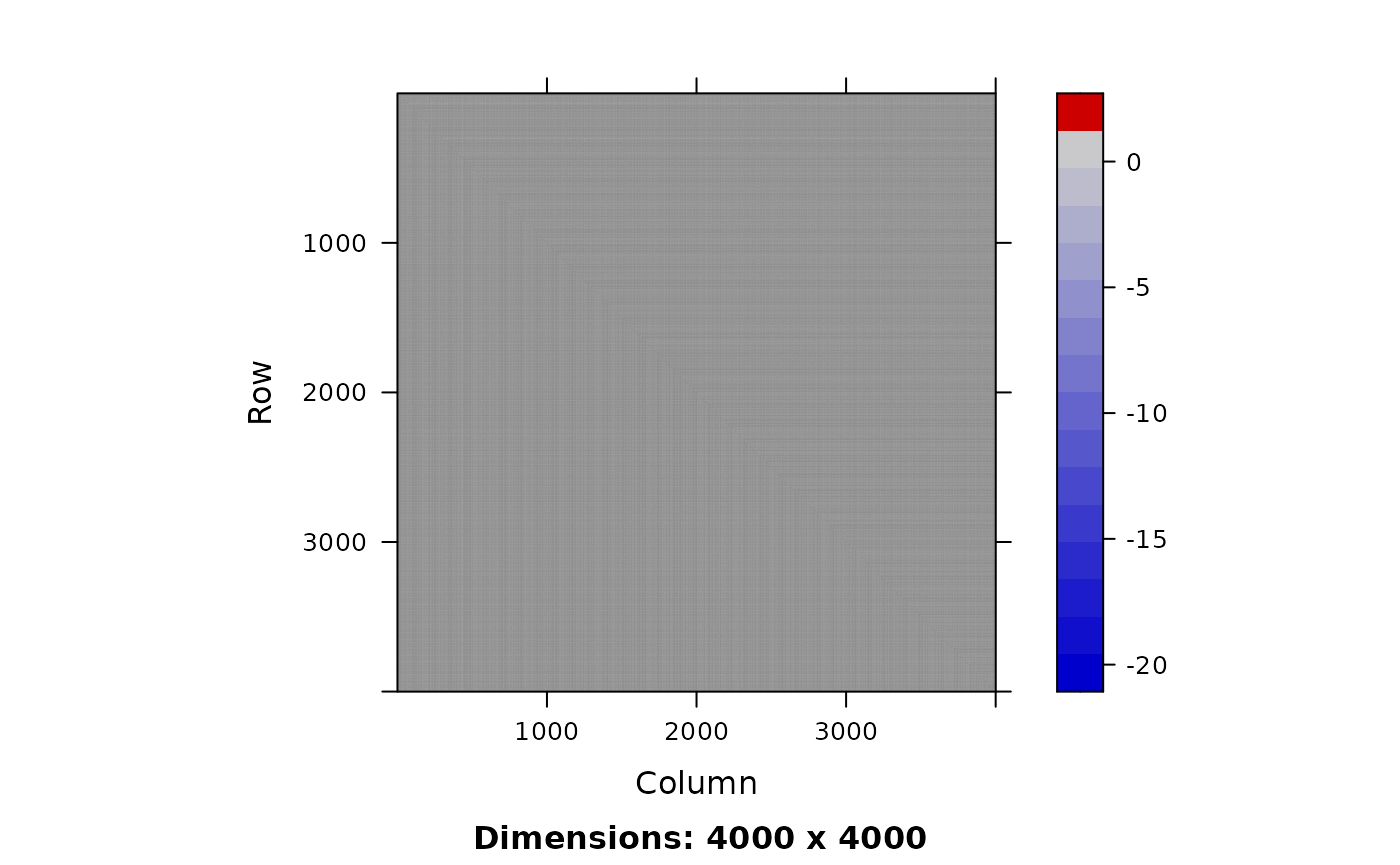
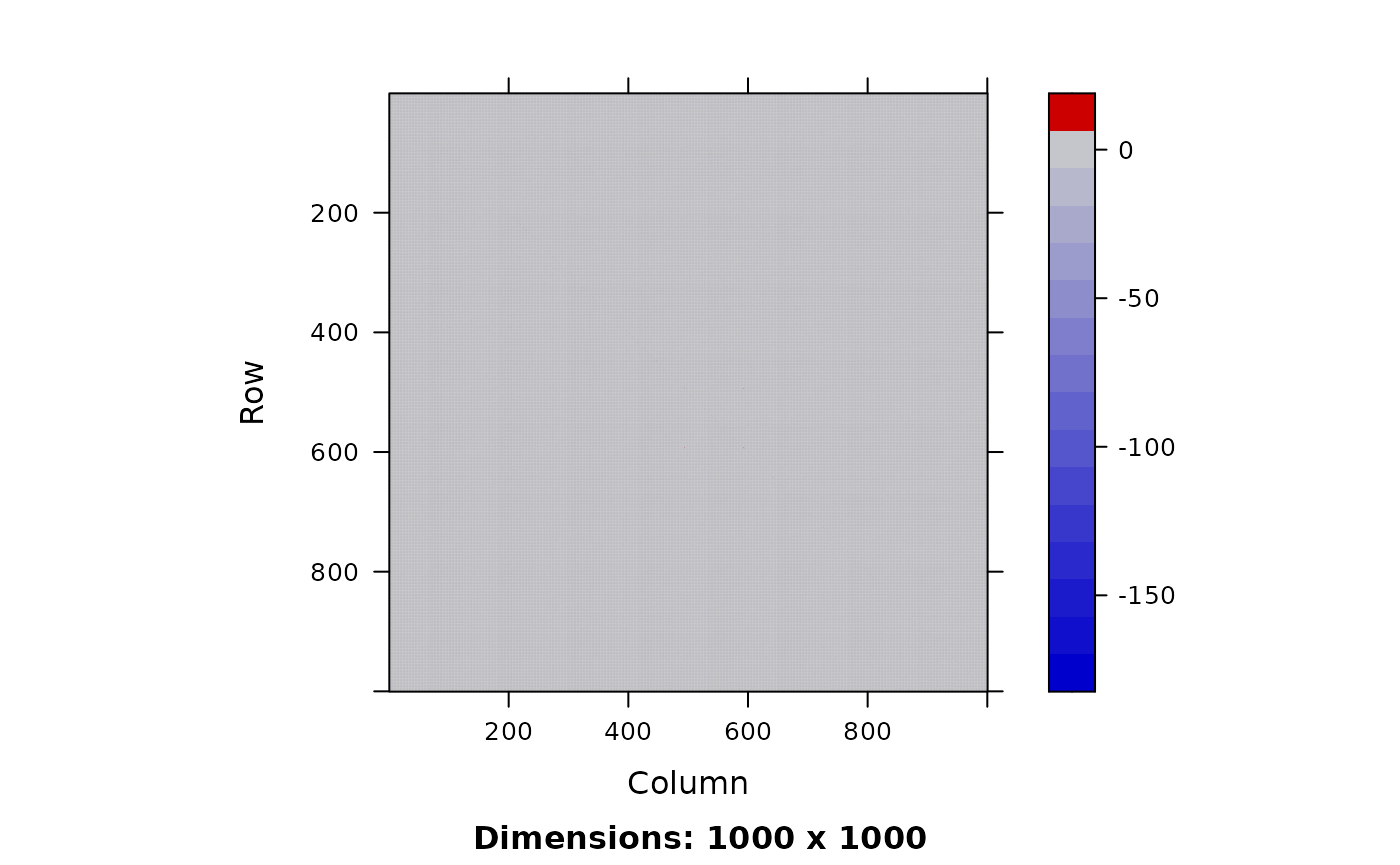
Deploying to gh-pages from @ James-Thorson/lanczosRTMB@1b094fcaff567adb40117b3e40da02e1cf9a8109 🚀

diff --git a/articles/lanczos.html b/articles/lanczos.html
@@ -74,7 +74,8 @@ matrix representing associations among random effects.</p>
 <code class="sourceCode R"><span><span class="kw"><a href="https://rdrr.io/r/base/library.html" class="external-link">library</a></span><span class="op">(</span><span class="va"><a href="https://Matrix.R-forge.R-project.org" class="external-link">Matrix</a></span><span class="op">)</span></span>
 <span><span class="kw"><a href="https://rdrr.io/r/base/library.html" class="external-link">library</a></span><span class="op">(</span><span class="va"><a href="https://github.com/kaskr/RTMB" class="external-link">RTMB</a></span><span class="op">)</span></span>
 <span><span class="kw"><a href="https://rdrr.io/r/base/library.html" class="external-link">library</a></span><span class="op">(</span><span class="va"><a href="https://github.com/James-Thorson/lanczosRTMB/" class="external-link">lanczosRTMB</a></span><span class="op">)</span></span>
-<span><span class="kw"><a href="https://rdrr.io/r/base/library.html" class="external-link">library</a></span><span class="op">(</span><span class="va"><a href="http://optimizer.r-forge.r-project.org/" class="external-link">numDeriv</a></span><span class="op">)</span></span></code></pre></div>
+<span><span class="kw"><a href="https://rdrr.io/r/base/library.html" class="external-link">library</a></span><span class="op">(</span><span class="va"><a href="http://optimizer.r-forge.r-project.org/" class="external-link">numDeriv</a></span><span class="op">)</span></span>
+<span><span class="kw"><a href="https://rdrr.io/r/base/library.html" class="external-link">library</a></span><span class="op">(</span><span class="va">memprof</span><span class="op">)</span></span></code></pre></div>
 <div class="section level2">
 <h2 id="generalized-linear-mixed-model">Generalized linear mixed model<a class="anchor" aria-label="anchor" href="#generalized-linear-mixed-model"></a>
 </h2>
@@ -370,7 +371,7 @@ change-in-support process:</p>
 <div class="sourceCode" id="cb15"><pre class="downlit sourceCode r">
 <code class="sourceCode R"><span><span class="co"># Settings</span></span>
 <span><span class="fu"><a href="https://rdrr.io/r/base/Random.html" class="external-link">set.seed</a></span><span class="op">(</span><span class="fl">123</span><span class="op">)</span></span>
-<span><span class="va">nx</span> <span class="op">=</span> <span class="fl">40</span></span>
+<span><span class="va">nx</span> <span class="op">=</span> <span class="fl">10</span></span>
 <span><span class="va">ny</span> <span class="op">=</span> <span class="fl">100</span></span>
 <span><span class="va">rho</span> <span class="op">=</span> <span class="fl">0.9</span></span>
 <span></span>
@@ -409,33 +410,33 @@ total across samples:</p>
 <span>  random <span class="op">=</span> <span class="st">"x"</span>,</span>
 <span>  silent <span class="op">=</span> <span class="cn">TRUE</span></span>
 <span><span class="op">)</span></span>
-<span><span class="va">opt_RTMB</span> <span class="op">=</span> <span class="fu"><a href="https://rdrr.io/r/stats/nlminb.html" class="external-link">nlminb</a></span><span class="op">(</span></span>
-<span>  <span class="va">obj_RTMB</span><span class="op">$</span><span class="va">par</span>,</span>
-<span>  <span class="va">obj_RTMB</span><span class="op">$</span><span class="va">fn</span>,</span>
-<span>  <span class="va">obj_RTMB</span><span class="op">$</span><span class="va">gr</span>,</span>
-<span>  control <span class="op">=</span> <span class="fu"><a href="https://rdrr.io/r/base/list.html" class="external-link">list</a></span><span class="op">(</span>trace <span class="op">=</span> <span class="fl">1</span><span class="op">)</span></span>
+<span><span class="va">fit_RTMB</span> <span class="op">=</span> <span class="fu"><a href="https://rdrr.io/pkg/memprof/man/with_monitor.html" class="external-link">with_monitor</a></span><span class="op">(</span></span>
+<span>  <span class="fu"><a href="https://rdrr.io/r/stats/nlminb.html" class="external-link">nlminb</a></span><span class="op">(</span></span>
+<span>    <span class="va">obj_RTMB</span><span class="op">$</span><span class="va">par</span>,</span>
+<span>    <span class="va">obj_RTMB</span><span class="op">$</span><span class="va">fn</span>,</span>
+<span>    <span class="va">obj_RTMB</span><span class="op">$</span><span class="va">gr</span>,</span>
+<span>    control <span class="op">=</span> <span class="fu"><a href="https://rdrr.io/r/base/list.html" class="external-link">list</a></span><span class="op">(</span>trace <span class="op">=</span> <span class="fl">1</span><span class="op">)</span></span>
+<span>  <span class="op">)</span></span>
 <span><span class="op">)</span></span>
-<span><span class="co">#&gt;   0:     9994.1592:  0.00000  0.00000  0.00000</span></span>
-<span><span class="co">#&gt;   1:     9724.1472: 0.115406 -0.000550483 0.00879376</span></span>
-<span><span class="co">#&gt;   2:     9598.7099: 0.226085 0.0216382 0.0343667</span></span>
-<span><span class="co">#&gt;   3:     9127.6280: 0.364543 0.713531 0.558723</span></span>
-<span><span class="co">#&gt;   4:     8956.2327: 0.533634 0.696312 0.567505</span></span>
-<span><span class="co">#&gt;   5:     8742.1105: 0.805113  1.23145 0.889017</span></span>
-<span><span class="co">#&gt;   6:     8737.7987: 0.760276  1.33188 0.908630</span></span>
-<span><span class="co">#&gt;   7:     8714.0135: 0.845456  1.37760 0.852643</span></span>
-<span><span class="co">#&gt;   8:     8693.7987: 0.873105  1.59709 0.883910</span></span>
-<span><span class="co">#&gt;   9:     8680.0660:  1.00309  1.79108 0.502912</span></span>
-<span><span class="co">#&gt;  10:     8662.3605:  1.01472  1.75631 0.948269</span></span>
-<span><span class="co">#&gt;  11:     8660.5855:  1.00124  1.78612 0.951100</span></span>
-<span><span class="co">#&gt;  12:     8658.7563:  1.03118  1.79956 0.952511</span></span>
-<span><span class="co">#&gt;  13:     8654.4940:  1.03837  1.86464 0.947471</span></span>
-<span><span class="co">#&gt;  14:     8642.9672:  1.17847  2.16417 0.903661</span></span>
-<span><span class="co">#&gt;  15:     8641.8910:  1.20436  2.24742 0.937567</span></span>
-<span><span class="co">#&gt;  16:     8641.8411:  1.20984  2.26628 0.948455</span></span>
-<span><span class="co">#&gt;  17:     8641.8406:  1.21026  2.26782 0.950275</span></span>
-<span><span class="co">#&gt;  18:     8641.8405:  1.21025  2.26778 0.950509</span></span>
-<span><span class="co">#&gt;  19:     8641.8405:  1.21024  2.26775 0.950558</span></span>
-<span><span class="va">opt_RTMB</span><span class="op">$</span><span class="va">run_time</span> <span class="op">=</span> <span class="fu"><a href="https://rdrr.io/r/base/Sys.time.html" class="external-link">Sys.time</a></span><span class="op">(</span><span class="op">)</span> <span class="op">-</span> <span class="va">start_time</span></span></code></pre></div>
+<span><span class="co">#&gt;   0:     2280.0939:  0.00000  0.00000  0.00000</span></span>
+<span><span class="co">#&gt;   1:     2207.2877: 0.127160 -0.00625933 0.00844188</span></span>
+<span><span class="co">#&gt;   2:     2177.1118: 0.251132 0.00559584 0.0361984</span></span>
+<span><span class="co">#&gt;   3:     2138.4981: 0.261639 0.180607 0.221620</span></span>
+<span><span class="co">#&gt;   4:     2103.4571: 0.600893 0.412780 0.524083</span></span>
+<span><span class="co">#&gt;   5:     2043.9903: 0.571990 0.919862 0.574231</span></span>
+<span><span class="co">#&gt;   6:     2019.9030: 0.823870  1.36207 0.612885</span></span>
+<span><span class="co">#&gt;   7:     2017.8703: 0.804545  1.47280 0.762314</span></span>
+<span><span class="co">#&gt;   8:     2015.3034: 0.860650  1.41406 0.845721</span></span>
+<span><span class="co">#&gt;   9:     2013.7610: 0.874801  1.51102 0.782851</span></span>
+<span><span class="co">#&gt;  10:     2013.4386: 0.936469  1.55903 0.771969</span></span>
+<span><span class="co">#&gt;  11:     2011.9344: 0.926273  1.59507 0.841422</span></span>
+<span><span class="co">#&gt;  12:     2011.0591: 0.954344  1.72269 0.752932</span></span>
+<span><span class="co">#&gt;  13:     2008.9144:  1.07549  1.99143 0.869239</span></span>
+<span><span class="co">#&gt;  14:     2008.8854:  1.09049  2.02967 0.867466</span></span>
+<span><span class="co">#&gt;  15:     2008.8843:  1.09366  2.03837 0.866483</span></span>
+<span><span class="co">#&gt;  16:     2008.8843:  1.09371  2.03863 0.866436</span></span>
+<span><span class="co">#&gt;  17:     2008.8843:  1.09371  2.03864 0.866446</span></span>
+<span><span class="va">fit_RTMB</span><span class="op">$</span><span class="va">run_time</span> <span class="op">=</span> <span class="fu"><a href="https://rdrr.io/r/base/Sys.time.html" class="external-link">Sys.time</a></span><span class="op">(</span><span class="op">)</span> <span class="op">-</span> <span class="va">start_time</span></span></code></pre></div>
 <p>We can see that the Hessian is dense:</p>
 <div class="sourceCode" id="cb18"><pre class="downlit sourceCode r">
 <code class="sourceCode R"><span><span class="fu">Matrix</span><span class="fu">::</span><span class="fu"><a href="https://rdrr.io/r/graphics/image.html" class="external-link">image</a></span><span class="op">(</span> <span class="va">obj_RTMB</span><span class="op">$</span><span class="va">env</span><span class="op">$</span><span class="fu">spHess</span><span class="op">(</span>random<span class="op">=</span><span class="cn">TRUE</span><span class="op">)</span> <span class="op">)</span></span></code></pre></div>
@@ -454,35 +455,34 @@ likelihood, pending improvements:</p>
 <span>  make_gr <span class="op">=</span> <span class="cn">TRUE</span>,</span>
 <span>  silent <span class="op">=</span> <span class="cn">TRUE</span></span>
 <span><span class="op">)</span></span>
-<span><span class="va">opt</span> <span class="op">=</span> <span class="fu"><a href="https://rdrr.io/r/stats/nlminb.html" class="external-link">nlminb</a></span><span class="op">(</span></span>
-<span>  <span class="va">obj</span><span class="op">$</span><span class="va">par</span>,</span>
-<span>  <span class="va">obj</span><span class="op">$</span><span class="va">fn</span>,</span>
-<span>  \<span class="op">(</span><span class="va">x</span><span class="op">)</span> <span class="va">obj</span><span class="op">$</span><span class="fu">gr</span><span class="op">(</span><span class="va">x</span>, method <span class="op">=</span> <span class="st">"simple"</span><span class="op">)</span>,</span>
-<span>  control <span class="op">=</span> <span class="fu"><a href="https://rdrr.io/r/base/list.html" class="external-link">list</a></span><span class="op">(</span>trace <span class="op">=</span> <span class="fl">1</span><span class="op">)</span></span>
+<span><span class="va">fit_lanczos</span> <span class="op">=</span> <span class="fu"><a href="https://rdrr.io/pkg/memprof/man/with_monitor.html" class="external-link">with_monitor</a></span><span class="op">(</span></span>
+<span>  <span class="fu"><a href="https://rdrr.io/r/stats/nlminb.html" class="external-link">nlminb</a></span><span class="op">(</span></span>
+<span>    <span class="va">obj</span><span class="op">$</span><span class="va">par</span>,</span>
+<span>    <span class="va">obj</span><span class="op">$</span><span class="va">fn</span>,</span>
+<span>    \<span class="op">(</span><span class="va">x</span><span class="op">)</span> <span class="va">obj</span><span class="op">$</span><span class="fu">gr</span><span class="op">(</span><span class="va">x</span>, method <span class="op">=</span> <span class="st">"simple"</span><span class="op">)</span>,</span>
+<span>    control <span class="op">=</span> <span class="fu"><a href="https://rdrr.io/r/base/list.html" class="external-link">list</a></span><span class="op">(</span>trace <span class="op">=</span> <span class="fl">1</span><span class="op">)</span></span>
+<span>  <span class="op">)</span></span>
 <span><span class="op">)</span></span>
-<span><span class="co">#&gt;   0:     9991.2368:  0.00000  0.00000  0.00000</span></span>
-<span><span class="co">#&gt;   1:     9718.8525: 0.115918 -0.000527228 0.00878810</span></span>
-<span><span class="co">#&gt;   2:     9592.1442: 0.227081 0.0218798 0.0343841</span></span>
-<span><span class="co">#&gt;   3:     9114.3907: 0.366620 0.719923 0.559955</span></span>
-<span><span class="co">#&gt;   4:     8938.3569: 0.536431 0.702813 0.568538</span></span>
-<span><span class="co">#&gt;   5:     8724.4372: 0.835631  1.23183 0.881356</span></span>
-<span><span class="co">#&gt;   6:     8718.6357: 0.752828  1.32559 0.897861</span></span>
-<span><span class="co">#&gt;   7:     8688.0120: 0.850119  1.37989 0.838664</span></span>
-<span><span class="co">#&gt;   8:     8666.6385: 0.874475  1.62213 0.905005</span></span>
-<span><span class="co">#&gt;   9:     8640.8689:  1.04705  1.86436 0.497274</span></span>
-<span><span class="co">#&gt;  10:     8637.0679:  1.03464  1.72422 0.981947</span></span>
-<span><span class="co">#&gt;  11:     8623.4954:  1.10823  2.19172  1.15725</span></span>
-<span><span class="co">#&gt;  12:     8606.5605:  1.21925  2.30262  1.00165</span></span>
-<span><span class="co">#&gt;  13:     8606.1820:  1.21809  2.27714 0.954530</span></span>
-<span><span class="co">#&gt;  14:     8606.1782:  1.21552  2.27148 0.953558</span></span>
-<span><span class="co">#&gt;  15:     8606.1782:  1.21511  2.27067 0.953768</span></span>
-<span><span class="co">#&gt;  16:     8606.1782:  1.21511  2.27067 0.953768</span></span>
-<span><span class="va">opt</span><span class="op">$</span><span class="va">run_time</span> <span class="op">=</span> <span class="fu"><a href="https://rdrr.io/r/base/Sys.time.html" class="external-link">Sys.time</a></span><span class="op">(</span><span class="op">)</span> <span class="op">-</span> <span class="va">start_time</span></span></code></pre></div>
+<span><span class="co">#&gt;   0:     2284.9213:  0.00000  0.00000  0.00000</span></span>
+<span><span class="co">#&gt;   1:     2214.5707: 0.124921 -0.00658059 0.00844309</span></span>
+<span><span class="co">#&gt;   2:     2185.5304: 0.246767 0.00405161 0.0360184</span></span>
+<span><span class="co">#&gt;   3:     2148.6147: 0.257447 0.172561 0.221410</span></span>
+<span><span class="co">#&gt;   4:     2118.7867: 0.590724 0.385236 0.529976</span></span>
+<span><span class="co">#&gt;   5:     2060.3209: 0.559643 0.880459 0.602822</span></span>
+<span><span class="co">#&gt;   6:     2038.9992: 0.803918  1.31344 0.668959</span></span>
+<span><span class="co">#&gt;   7:     2037.1149: 0.928789  1.77952 0.532244</span></span>
+<span><span class="co">#&gt;   8:     2032.2401:  1.01982  1.86917  1.01721</span></span>
+<span><span class="co">#&gt;   9:     2031.3796:  1.02994  1.89082 0.848055</span></span>
+<span><span class="co">#&gt;  10:     2031.3566:  1.02452  1.87281 0.866811</span></span>
+<span><span class="co">#&gt;  11:     2031.3563:  1.02262  1.86824 0.867938</span></span>
+<span><span class="co">#&gt;  12:     2031.3563:  1.02248  1.86785 0.867730</span></span>
+<span><span class="co">#&gt;  13:     2031.3563:  1.02248  1.86785 0.867730</span></span>
+<span><span class="va">fit_lanczos</span><span class="op">$</span><span class="va">run_time</span> <span class="op">=</span> <span class="fu"><a href="https://rdrr.io/r/base/Sys.time.html" class="external-link">Sys.time</a></span><span class="op">(</span><span class="op">)</span> <span class="op">-</span> <span class="va">start_time</span></span></code></pre></div>
 <p>Where we can compare the runtime for the two models:</p>
 <div class="sourceCode" id="cb20"><pre class="downlit sourceCode r">
 <code class="sourceCode R"><span><span class="va">runtime</span> <span class="op">=</span> <span class="fu"><a href="https://rdrr.io/r/base/c.html" class="external-link">c</a></span><span class="op">(</span></span>
-<span>  RTMB <span class="op">=</span> <span class="va">opt_RTMB</span><span class="op">$</span><span class="va">run</span>,</span>
-<span>  Lanczos <span class="op">=</span> <span class="va">opt</span><span class="op">$</span><span class="va">run</span></span>
+<span>  RTMB <span class="op">=</span> <span class="va">fit_RTMB</span><span class="op">$</span><span class="va">run_time</span>,</span>
+<span>  Lanczos <span class="op">=</span> <span class="va">fit_lanczos</span><span class="op">$</span><span class="va">run_time</span></span>
 <span><span class="op">)</span></span>
 <span><span class="fu">knitr</span><span class="fu">::</span><span class="fu"><a href="https://rdrr.io/pkg/knitr/man/kable.html" class="external-link">kable</a></span><span class="op">(</span> <span class="va">runtime</span>, digits<span class="op">=</span><span class="fl">2</span>, caption<span class="op">=</span><span class="st">"Run-times"</span> <span class="op">)</span></span></code></pre></div>
 <table class="table">
@@ -494,15 +494,21 @@ likelihood, pending improvements:</p>
 <tbody>
 <tr class="odd">
 <td align="left">RTMB</td>
-<td align="left">2.27 mins</td>
+<td align="left">7.12 secs</td>
 </tr>
 <tr class="even">
 <td align="left">Lanczos</td>
-<td align="left">3.17 mins</td>
+<td align="left">32.92 secs</td>
 </tr>
 </tbody>
 </table>
-<p>Runtime for this vignette: 6.73 mins</p>
+<p>And we can also compare memory use:</p>
+<div class="sourceCode" id="cb21"><pre class="downlit sourceCode r">
+<code class="sourceCode R"><span><span class="fu"><a href="https://rdrr.io/r/graphics/par.html" class="external-link">par</a></span><span class="op">(</span>mfrow <span class="op">=</span> <span class="fu"><a href="https://rdrr.io/r/base/c.html" class="external-link">c</a></span><span class="op">(</span><span class="fl">2</span>,<span class="fl">1</span><span class="op">)</span> <span class="op">)</span></span>
+<span><span class="fu"><a href="https://rdrr.io/r/graphics/plot.default.html" class="external-link">plot</a></span><span class="op">(</span><span class="fu">memprof</span><span class="fu">:::</span><span class="fu">used_memory_total_by_time</span><span class="op">(</span><span class="va">fit_RTMB</span><span class="op">$</span><span class="va">memory_use</span><span class="op">)</span>, type <span class="op">=</span> <span class="st">"l"</span>, main <span class="op">=</span> <span class="st">"RTMB"</span><span class="op">)</span></span>
+<span><span class="fu"><a href="https://rdrr.io/r/graphics/plot.default.html" class="external-link">plot</a></span><span class="op">(</span><span class="fu">memprof</span><span class="fu">:::</span><span class="fu">used_memory_total_by_time</span><span class="op">(</span><span class="va">fit_lanczos</span><span class="op">$</span><span class="va">memory_use</span><span class="op">)</span>, type <span class="op">=</span> <span class="st">"l"</span>, main <span class="op">=</span> <span class="st">"lanczos"</span><span class="op">)</span></span></code></pre></div>
+<p><img src="lanczos_files/figure-html/unnamed-chunk-20-1.png" class="r-plt" alt="" width="576"></p>
+<p>Runtime for this vignette: 51.47 secs</p>
 <div class="section level3">
 <h3 id="works-cited">Works cited<a class="anchor" aria-label="anchor" href="#works-cited"></a>
 </h3>

diff --git a/reference/make_Hq.html b/reference/make_Hq.html
@@ -167,16 +167,16 @@ forward-on-reverse (and FD of autodiff gradients) is efficient given that
 <span class="r-in"><span></span></span>
 <span class="r-in"><span><span class="fu"><a href="https://rdrr.io/r/base/system.time.html" class="external-link">system.time</a></span><span class="op">(</span><span class="fu">Hq</span><span class="op">(</span><span class="va">q</span>, <span class="va">x_new</span><span class="op">)</span><span class="op">)</span></span></span>
 <span class="r-out co"><span class="r-pr">#&gt;</span>    user  system elapsed </span>
-<span class="r-out co"><span class="r-pr">#&gt;</span>   0.001   0.000   0.000 </span>
+<span class="r-out co"><span class="r-pr">#&gt;</span>       0       0       0 </span>
 <span class="r-in"><span><span class="fu"><a href="https://rdrr.io/r/base/system.time.html" class="external-link">system.time</a></span><span class="op">(</span><span class="fu">Hq2</span><span class="op">(</span><span class="va">q</span>, <span class="va">x_new</span><span class="op">)</span><span class="op">)</span></span></span>
 <span class="r-out co"><span class="r-pr">#&gt;</span>    user  system elapsed </span>
 <span class="r-out co"><span class="r-pr">#&gt;</span>   0.006   0.000   0.006 </span>
 <span class="r-in"><span><span class="fu"><a href="https://rdrr.io/r/base/system.time.html" class="external-link">system.time</a></span><span class="op">(</span><span class="fu">Hq2</span><span class="op">(</span><span class="va">q</span>, <span class="va">x_new</span>, update_H <span class="op">=</span> <span class="cn">FALSE</span><span class="op">)</span><span class="op">)</span></span></span>
 <span class="r-out co"><span class="r-pr">#&gt;</span>    user  system elapsed </span>
-<span class="r-out co"><span class="r-pr">#&gt;</span>       0       0       0 </span>
+<span class="r-out co"><span class="r-pr">#&gt;</span>   0.001   0.000   0.000 </span>
 <span class="r-in"><span><span class="fu"><a href="https://rdrr.io/r/base/system.time.html" class="external-link">system.time</a></span><span class="op">(</span><span class="fu">Hq3</span><span class="op">(</span><span class="va">q</span>, <span class="va">x_new</span><span class="op">)</span><span class="op">)</span></span></span>
 <span class="r-out co"><span class="r-pr">#&gt;</span>    user  system elapsed </span>
-<span class="r-out co"><span class="r-pr">#&gt;</span>   0.000   0.000   0.001 </span>
+<span class="r-out co"><span class="r-pr">#&gt;</span>       0       0       0 </span>
 </code></pre></div>
     </div>
   </main><aside class="col-md-3"><nav id="toc" aria-label="Table of contents"><h2>On this page</h2>

diff --git a/reference/newton_CG.html b/reference/newton_CG.html
@@ -244,7 +244,7 @@ This smartsearch behavior controlled by <code>u0</code>, <code>ustep</code>,
 <span class="r-plt img"><img src="newton_CG-1.png" alt="" width="700" height="433"></span>
 <span class="r-in"><span><span class="fu"><a href="https://rdrr.io/r/base/c.html" class="external-link">c</a></span><span class="op">(</span><span class="va">opt1</span><span class="op">$</span><span class="va">runtime</span>, <span class="va">opt2</span><span class="op">$</span><span class="va">runtime</span><span class="op">)</span></span></span>
 <span class="r-out co"><span class="r-pr">#&gt;</span> Time differences in secs</span>
-<span class="r-out co"><span class="r-pr">#&gt;</span> [1]  6.60975 17.46771</span>
+<span class="r-out co"><span class="r-pr">#&gt;</span> [1]  7.440611 15.827131</span>
 <span class="r-in"><span><span class="co"># newton_CG finds a slightly better fit</span></span></span>
 <span class="r-in"><span><span class="fu"><a href="https://rdrr.io/r/base/c.html" class="external-link">c</a></span><span class="op">(</span><span class="va">opt1</span><span class="op">$</span><span class="va">value</span>, <span class="va">opt2</span><span class="op">$</span><span class="va">value</span><span class="op">)</span></span></span>
 <span class="r-out co"><span class="r-pr">#&gt;</span> [1] -1220.361 -1220.471</span>

diff --git a/articles/lanczos.md b/articles/lanczos.md
@@ -11,6 +11,7 @@ library(Matrix)
 library(RTMB)
 library(lanczosRTMB)
 library(numDeriv)
+library(memprof)
 ```
 
 ## Generalized linear mixed model
@@ -350,7 +351,7 @@ change-in-support process:
 
 # Settings
 set.seed(123)
-nx = 40
+nx = 10
 ny = 100
 rho = 0.9
 
@@ -397,33 +398,33 @@ obj_RTMB = MakeADFun(
   random = "x",
   silent = TRUE
 )
-opt_RTMB = nlminb(
-  obj_RTMB$par,
-  obj_RTMB$fn,
-  obj_RTMB$gr,
-  control = list(trace = 1)
+fit_RTMB = with_monitor(
+  nlminb(
+    obj_RTMB$par,
+    obj_RTMB$fn,
+    obj_RTMB$gr,
+    control = list(trace = 1)
+  )
 )
-#>   0:     9994.1592:  0.00000  0.00000  0.00000
-#>   1:     9724.1472: 0.115406 -0.000550483 0.00879376
-#>   2:     9598.7099: 0.226085 0.0216382 0.0343667
-#>   3:     9127.6280: 0.364543 0.713531 0.558723
-#>   4:     8956.2327: 0.533634 0.696312 0.567505
-#>   5:     8742.1105: 0.805113  1.23145 0.889017
-#>   6:     8737.7987: 0.760276  1.33188 0.908630
-#>   7:     8714.0135: 0.845456  1.37760 0.852643
-#>   8:     8693.7987: 0.873105  1.59709 0.883910
-#>   9:     8680.0660:  1.00309  1.79108 0.502912
-#>  10:     8662.3605:  1.01472  1.75631 0.948269
-#>  11:     8660.5855:  1.00124  1.78612 0.951100
-#>  12:     8658.7563:  1.03118  1.79956 0.952511
-#>  13:     8654.4940:  1.03837  1.86464 0.947471
-#>  14:     8642.9672:  1.17847  2.16417 0.903661
-#>  15:     8641.8910:  1.20436  2.24742 0.937567
-#>  16:     8641.8411:  1.20984  2.26628 0.948455
-#>  17:     8641.8406:  1.21026  2.26782 0.950275
-#>  18:     8641.8405:  1.21025  2.26778 0.950509
-#>  19:     8641.8405:  1.21024  2.26775 0.950558
-opt_RTMB$run_time = Sys.time() - start_time
+#>   0:     2280.0939:  0.00000  0.00000  0.00000
+#>   1:     2207.2877: 0.127160 -0.00625933 0.00844188
+#>   2:     2177.1118: 0.251132 0.00559584 0.0361984
+#>   3:     2138.4981: 0.261639 0.180607 0.221620
+#>   4:     2103.4571: 0.600893 0.412780 0.524083
+#>   5:     2043.9903: 0.571990 0.919862 0.574231
+#>   6:     2019.9030: 0.823870  1.36207 0.612885
+#>   7:     2017.8703: 0.804545  1.47280 0.762314
+#>   8:     2015.3034: 0.860650  1.41406 0.845721
+#>   9:     2013.7610: 0.874801  1.51102 0.782851
+#>  10:     2013.4386: 0.936469  1.55903 0.771969
+#>  11:     2011.9344: 0.926273  1.59507 0.841422
+#>  12:     2011.0591: 0.954344  1.72269 0.752932
+#>  13:     2008.9144:  1.07549  1.99143 0.869239
+#>  14:     2008.8854:  1.09049  2.02967 0.867466
+#>  15:     2008.8843:  1.09366  2.03837 0.866483
+#>  16:     2008.8843:  1.09371  2.03863 0.866436
+#>  17:     2008.8843:  1.09371  2.03864 0.866446
+fit_RTMB$run_time = Sys.time() - start_time
 ```
 
 We can see that the Hessian is dense:
@@ -451,30 +452,29 @@ obj = lanczos_MakeADFun(
   make_gr = TRUE,
   silent = TRUE
 )
-opt = nlminb(
-  obj$par,
-  obj$fn,
-  \(x) obj$gr(x, method = "simple"),
-  control = list(trace = 1)
+fit_lanczos = with_monitor(
+  nlminb(
+    obj$par,
+    obj$fn,
+    \(x) obj$gr(x, method = "simple"),
+    control = list(trace = 1)
+  )
 )
-#>   0:     9991.2368:  0.00000  0.00000  0.00000
-#>   1:     9718.8525: 0.115918 -0.000527228 0.00878810
-#>   2:     9592.1442: 0.227081 0.0218798 0.0343841
-#>   3:     9114.3907: 0.366620 0.719923 0.559955
-#>   4:     8938.3569: 0.536431 0.702813 0.568538
-#>   5:     8724.4372: 0.835631  1.23183 0.881356
-#>   6:     8718.6357: 0.752828  1.32559 0.897861
-#>   7:     8688.0120: 0.850119  1.37989 0.838664
-#>   8:     8666.6385: 0.874475  1.62213 0.905005
-#>   9:     8640.8689:  1.04705  1.86436 0.497274
-#>  10:     8637.0679:  1.03464  1.72422 0.981947
-#>  11:     8623.4954:  1.10823  2.19172  1.15725
-#>  12:     8606.5605:  1.21925  2.30262  1.00165
-#>  13:     8606.1820:  1.21809  2.27714 0.954530
-#>  14:     8606.1782:  1.21552  2.27148 0.953558
-#>  15:     8606.1782:  1.21511  2.27067 0.953768
-#>  16:     8606.1782:  1.21511  2.27067 0.953768
-opt$run_time = Sys.time() - start_time
+#>   0:     2284.9213:  0.00000  0.00000  0.00000
+#>   1:     2214.5707: 0.124921 -0.00658059 0.00844309
+#>   2:     2185.5304: 0.246767 0.00405161 0.0360184
+#>   3:     2148.6147: 0.257447 0.172561 0.221410
+#>   4:     2118.7867: 0.590724 0.385236 0.529976
+#>   5:     2060.3209: 0.559643 0.880459 0.602822
+#>   6:     2038.9992: 0.803918  1.31344 0.668959
+#>   7:     2037.1149: 0.928789  1.77952 0.532244
+#>   8:     2032.2401:  1.01982  1.86917  1.01721
+#>   9:     2031.3796:  1.02994  1.89082 0.848055
+#>  10:     2031.3566:  1.02452  1.87281 0.866811
+#>  11:     2031.3563:  1.02262  1.86824 0.867938
+#>  12:     2031.3563:  1.02248  1.86785 0.867730
+#>  13:     2031.3563:  1.02248  1.86785 0.867730
+fit_lanczos$run_time = Sys.time() - start_time
 ```
 
 Where we can compare the runtime for the two models:
@@ -482,19 +482,30 @@ Where we can compare the runtime for the two models:
 ``` r
 
 runtime = c(
-  RTMB = opt_RTMB$run,
-  Lanczos = opt$run
+  RTMB = fit_RTMB$run_time,
+  Lanczos = fit_lanczos$run_time
 )
 knitr::kable( runtime, digits=2, caption="Run-times" )
 ```
 
-|         | x         |
-|:--------|:----------|
-| RTMB    | 2.27 mins |
-| Lanczos | 3.17 mins |
+|         | x          |
+|:--------|:-----------|
+| RTMB    | 7.12 secs  |
+| Lanczos | 32.92 secs |
 
 Run-times {.table}
 
-Runtime for this vignette: 6.73 mins
+And we can also compare memory use:
+
+``` r
+
+par(mfrow = c(2,1) )
+plot(memprof:::used_memory_total_by_time(fit_RTMB$memory_use), type = "l", main = "RTMB")
+plot(memprof:::used_memory_total_by_time(fit_lanczos$memory_use), type = "l", main = "lanczos")
+```
+
+![](lanczos_files/figure-html/unnamed-chunk-20-1.png)
+
+Runtime for this vignette: 51.47 secs
 
 ### Works cited

diff --git a/reference/make_Hq.md b/reference/make_Hq.md
@@ -138,14 +138,14 @@ x_new[which_random] = rnorm(length(which_random))
 
 system.time(Hq(q, x_new))
 #>    user  system elapsed 
-#>   0.001   0.000   0.000 
+#>       0       0       0 
 system.time(Hq2(q, x_new))
 #>    user  system elapsed 
 #>   0.006   0.000   0.006 
 system.time(Hq2(q, x_new, update_H = FALSE))
 #>    user  system elapsed 
-#>       0       0       0 
+#>   0.001   0.000   0.000 
 system.time(Hq3(q, x_new))
 #>    user  system elapsed 
-#>   0.000   0.000   0.001 
+#>       0       0       0 
 ```

diff --git a/reference/newton_CG.md b/reference/newton_CG.md
@@ -210,7 +210,7 @@ matplot( cbind(opt1$par, opt2$par), type = "l", col = c("black","blue","red"), l
 
 c(opt1$runtime, opt2$runtime)
 #> Time differences in secs
-#> [1]  6.60975 17.46771
+#> [1]  7.440611 15.827131
 # newton_CG finds a slightly better fit
 c(opt1$value, opt2$value)
 #> [1] -1220.361 -1220.471